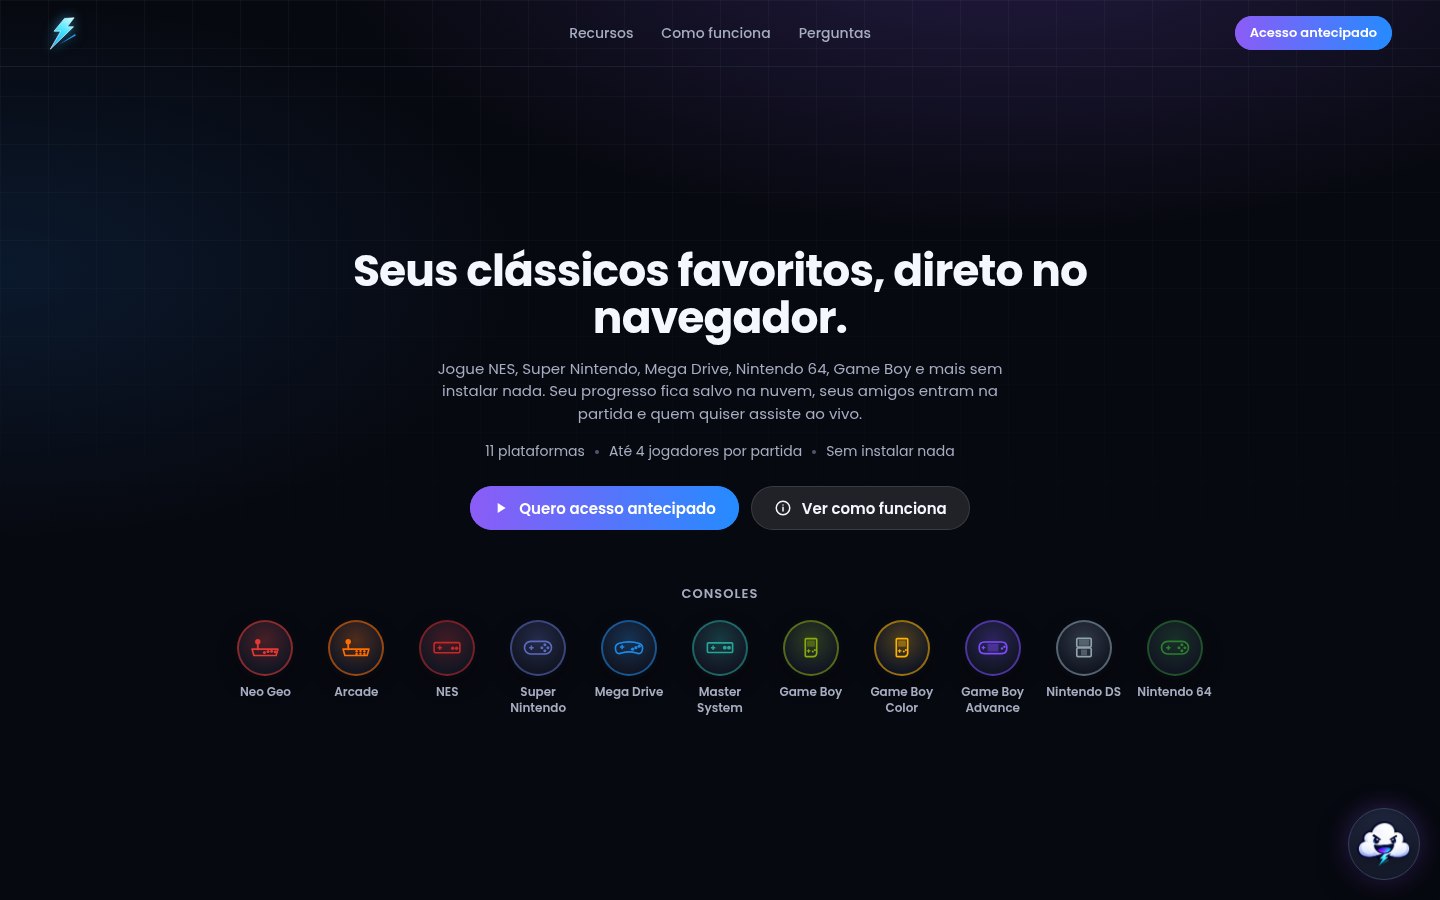
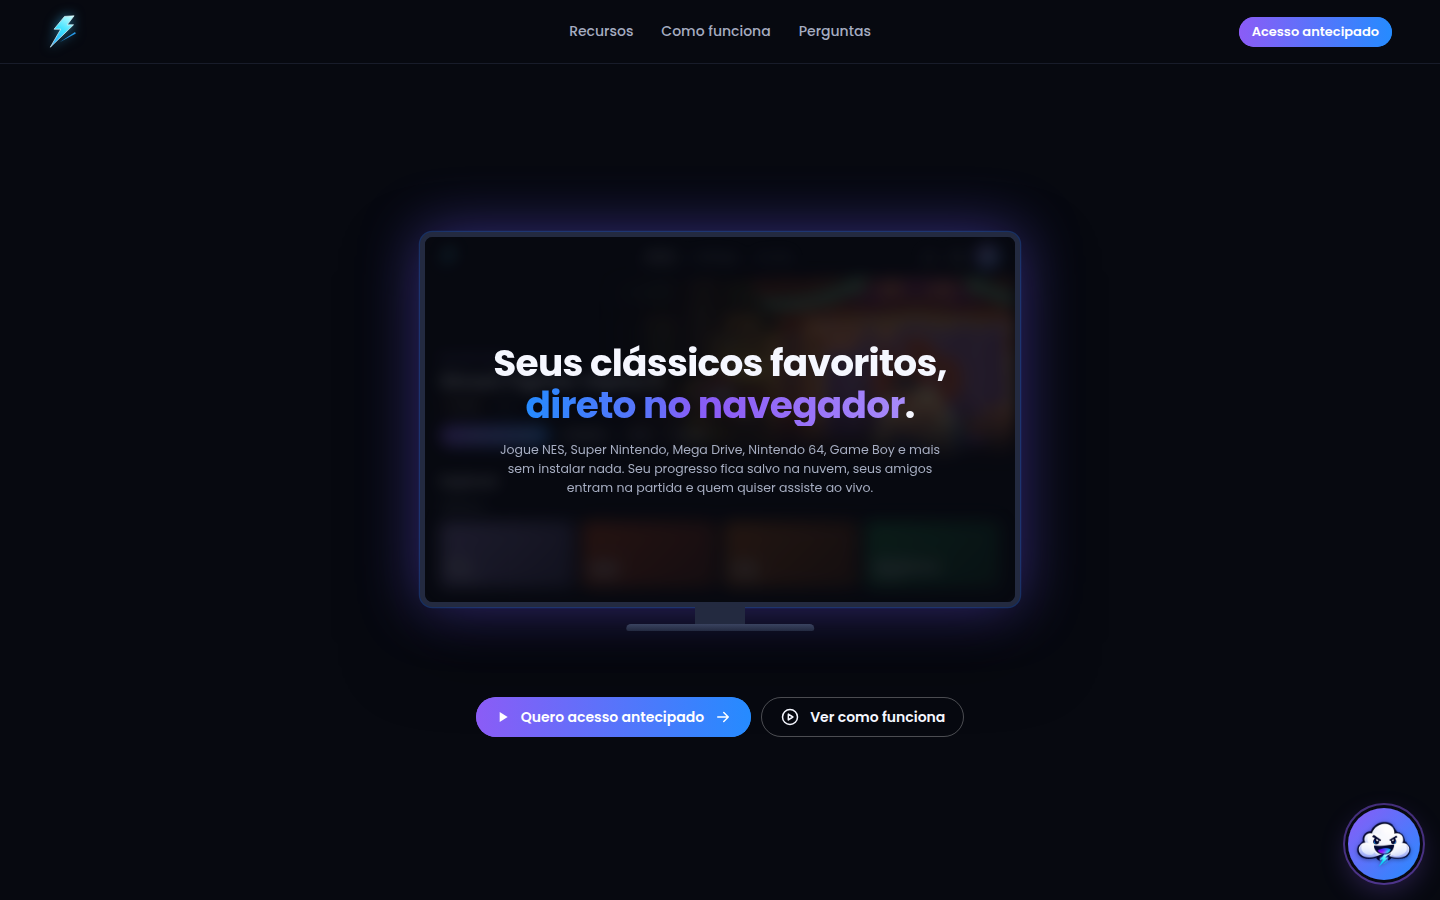
docs: show the animated hero in the readme

diff --git a/README.md b/README.md
@@ -9,7 +9,7 @@
 </div>
 
 <p align="center">
-  <img src=".github/home.png" alt="Opening screen with the headline, the early access button and the eleven consoles side by side" width="100%">
+  <img src=".github/home.png" alt="Opening screen with the headline over a sketch of the app on a monitor, and the early access and how it works buttons below" width="100%">
 </p>
 
 <!-- markdownlint-enable MD033 -->
@@ -81,6 +81,23 @@ Cloudly Game Landing is a static page, with plain HTML, CSS and JavaScript and n
   │   ├── home.png
   │   └── signup.png
   ├── assets/
+  │   ├── avatars/
+  │   │   ├── alien.svg
+  │   │   ├── astronauta.svg
+  │   │   ├── bruxa.svg
+  │   │   ├── cavaleiro.svg
+  │   │   ├── dino.svg
+  │   │   ├── gato.svg
+  │   │   ├── ninja.svg
+  │   │   └── robo.svg
+  │   ├── games/
+  │   │   ├── covers/
+  │   │   │   ├── 01.webp
+  │   │   │   ├── ...
+  │   │   │   └── 24.webp
+  │   │   ├── kof2002-screenshot.webp
+  │   │   ├── kof2002-title.webp
+  │   │   └── sfa3-screenshot.webp
   │   ├── pixel/
   │   │   ├── alien.svg
   │   │   ├── cartridge.svg
@@ -105,7 +122,7 @@ Cloudly Game Landing is a static page, with plain HTML, CSS and JavaScript and n
   └── styles.css
 ```
 
-The pixel art in `assets/pixel/` is exported from `src/sprites.ts` of the frontend, and the icons, logo and mascot come from its `public/` folder.
+The pixel art in `assets/pixel/` and `assets/avatars/` is exported from `src/sprites.ts` of the frontend, and the icons, logo and mascot come from its `public/` folder. `assets/games/` holds the covers and screenshots of catalog games that the hero tour shows on its screen.
 
 ## Prerequisites
 
